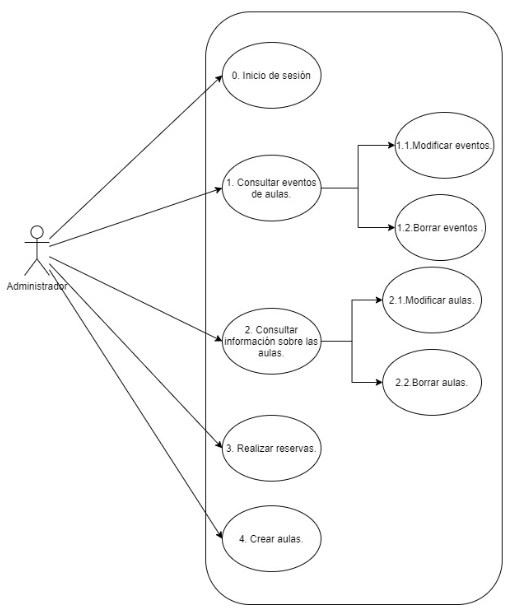
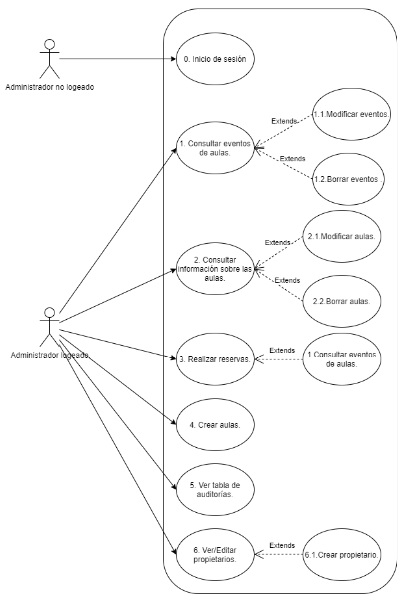
Actualizar casos de uso #77

diff --git a/Documentacion/tex/B_Requisitos.tex b/Documentacion/tex/B_Requisitos.tex
@@ -9,9 +9,10 @@ En este apartado de la documentación explicaré  los objetivos que se perseguí
 	\item Ofrecer al usuario una vista sobre las aulas existentes, si es administrador podrá modificarlas o borrarlas también.
 	\item Ofrecer al usuario una vista con las franjas horarias reservadas y libres de cada aula.
 	\item Controlar el solapamiento de horas.
+	\item Ofrecer un control al administrador sobre las reservas y la información de las aulas.
 \end{itemize}
 \section{Catalogo de requisitos}
-En esta sección enumeraré los requisitos funcionales de la aplicación y los usuarios que intervienen.
+En esta sección enumeraré los requisitos funcionales de la aplicación y los usuarios que intervienen.\newline
 \textbf{Usuario:} será quién use la aplicación, según los privilegios les hay de tres tipos:
     \begin{itemize}
         \item Sin privilegios: Puede consultar todas las aulas y su ocupación.
@@ -52,11 +53,10 @@ En esta sección enumeraré los requisitos funcionales de la aplicación y los u
         \item \textbf{RF.6.2} Permite borrar los eventos.
     \end{itemize}
     \item \textbf{RF.7} La aplicación tiene que poder crear un aula nueva para un manejo posterior.
-     
-    
+    \item \textbf{RF.8} La aplicación tiene que permitir al administrador ver  una tabla de auditoría con las altas, bajas y modificaciones que se realizan en las reservas.
+    \item \textbf{RF.9} La aplicación tiene que poder crear y modificar los propietarios y su información.
     
 \end{itemize}
-
 
 \subsection{Requisitos no funcionales}
 \begin{itemize}
@@ -65,6 +65,7 @@ En esta sección enumeraré los requisitos funcionales de la aplicación y los u
 	\item \textbf{RNF.3 Seguridad} Se controla que no se pueda acceder sin haber iniciado sesión y una vez iniciada sesión, se controla el acceso a las distintas partes de la aplicación.
 	\item \textbf{RFN.4 Mantenibilidad} Es sencillo añadir nuevas funcionalidades.
 \end{itemize}
+\newpage
 \section{Especificación de requisitos}
 \subsection{Diagrama de casos de uso}
 
@@ -118,20 +119,20 @@ En esta sección enumeraré los requisitos funcionales de la aplicación y los u
                                          \\\hline
   Precondiciones                         &  \multicolumn{2}{p{10.25cm}}{Haber iniciado sesión.}   \\\hline
     \multirow{2}{3.5cm}{Secuencia normal}  & Paso & Acción \\\cline{2-3}
-                                         & 1    & El usuario pincha el botón 'Consultar ocupación de aulas' de la barra superior de navegación.
+                                         & 1    & El usuario pincha el botón 'Consultar ocupación de aulas' de la barra superior de navegación o el menú principal.
   \\\cline{2-3}
-                                         & 2    & Se redirige a una página donde se muestra un desplegable para elegir el edificio.
+                                         & 2    & Se redirige a una página donde se muestra un desplegable para elegir el edificio. Con un botón de 'Mostrar aulas'.
   \\\cline{2-3}
-                                         & 3    & Se elige el edifico y se muestra un desplegable con las aulas de éste.También se facilita un botón 'Filtros'.
+                                         & 3    & Se elige el edifico y se pincha en 'Mostrar aulas', aparece entonces un desplegable con las aulas de éste y una primera opción 'Cualquiera'. Debajo tenemos unos cuantos campos para filtrar las aulas por características si elegimos la opción 'Cualquiera' anteriormente. Si elegimos un aula en concreto solamente se tendrán en cuenta los campos de fecha y hora obligatorios. Si no se especifica capacidad ni ordenadores, se mostrarán de todas las capacidades y ordenadores, si se especifican se mostrarán eventos con igual o mayor número.
     \\\cline{2-3}
-                                         & 4    & Si se elige la opción filtros, se muestran más campos para rellenar y filtrar las aulas por ellos. Si no se puede pinchar el botón 'Mostrar eventos' para ver los eventos del aula elegida en el desplegable.
+                                         & 4    & Una vez se ha rellenado el formulario al menos con los campos de fecha y horas se puede pinchar en el botón 'Enviar consulta' para consultar los eventos que coincidan con los especificado anteriormente.
      \\\cline{2-3}
-                                        & 5     & Se muestra la tabla con los eventos pasados y los futuros, especificando detalles sobre ellos.
+                                        & 5     & Se muestra la tabla con los eventos futuros que cumplan las especificaciones, mostrando detalles sobre ellos. Existe un botón en la parte inferior de 'Mostrar eventos pasados' que mostrará los eventos pasados coincidentes en color rojo si en la fecha de inicio se puso una anterior a la actual. Una vez mostrados se puede volver a ocultar del botón 'Ocultar eventos pasados'.
                                         \\\hline
 
                                         
   Postcondiciones                        & \multicolumn{2}{p{10.25cm}}{Permite la visualización de los eventos según el aula elegido, depende de los privilegios del usuario dispondrá de las opciones de modificar (CU1.1) y borrar estos eventos (CU1.2).} \\\hline
-  Excepciones                        & \multicolumn{2}{p{10.25cm}}{Activar la opción de los filtros pero no rellenarlos todos.}
+  Excepciones                        & \multicolumn{2}{p{10.25cm}}{No rellenar los campos de fecha y horas.}
 \\\hline
 }
 
@@ -147,13 +148,13 @@ En esta sección enumeraré los requisitos funcionales de la aplicación y los u
                                          \\\hline
   Precondiciones                         &  \multicolumn{2}{p{10.25cm}}{Tener permisos de administrador o de propietario.}   \\\hline
     \multirow{2}{3.5cm}{Secuencia normal}  & Paso & Acción \\\cline{2-3}
-                                         & 1    & El usuario pincha el botón 'Consultar ocupación de aulas' de la barra superior de navegación.
+                                         & 1    & El usuario pincha el botón 'Consultar ocupación de aulas' de la barra superior de navegación o el menú principal.
   \\\cline{2-3}
-                                         & 2    & Se redirige a una página donde se muestra un desplegable para elegir el edificio.
+                                         & 2    & Se redirige a una página donde se muestra un desplegable para elegir el edificio. Con un botón de 'Mostrar aulas'.
   \\\cline{2-3}
-                                         & 3    & Se elige el edifico y se muestra un desplegable con las aulas de éste.También se facilita un botón 'Filtros'.
+                                         & 3    & Se elige el edifico y se pincha en 'Mostrar aulas', aparece entonces un desplegable con las aulas de éste y una primera opción 'Cualquiera'. Debajo tenemos unos cuantos campos para filtrar las aulas por características si elegimos la opción 'Cualquiera' anteriormente. Si elegimos un aula en concreto solamente se tendrán en cuenta los campos de fecha y hora obligatorios. Si no se especifica capacidad ni ordenadores, se mostrarán de todas las capacidades y ordenadores, si se especifican se mostrarán eventos con igual o mayor número.
     \\\cline{2-3}
-                                         & 4    & Si se elige la opción filtros, se muestran más campos para rellenar y filtrar las aulas por ellos. Si no se puede pinchar el botón 'Mostrar eventos' para ver los eventos del aula elegida en el desplegable.
+                                         & 4    & Una vez se ha rellenado el formulario al menos con los campos de fecha y horas. Si se pincha en 'Enviar consulta', se filtran los eventos y si el usuario es propietario de algún aula o administrador tendrá la opción de modificar en la siguiente pantalla.
      \\\cline{2-3}
                                         & 5     & Se muestra la tabla con los eventos pasados y los futuros, especificando detalles sobre ellos.
     \\\cline{2-3}
@@ -183,13 +184,13 @@ En esta sección enumeraré los requisitos funcionales de la aplicación y los u
                                          \\\hline
   Precondiciones                         &  \multicolumn{2}{p{10.25cm}}{Tener permisos de administrador o de propietario.}   \\\hline
     \multirow{2}{3.5cm}{Secuencia normal}  & Paso & Acción \\\cline{2-3}
-                                         & 1    & El usuario pincha el botón 'Consultar ocupación de aulas' de la barra superior de navegación.
+                                         & 1    & El usuario pincha el botón 'Consultar ocupación de aulas' de la barra superior de navegación o el menú principal.
   \\\cline{2-3}
-                                         & 2    & Se redirige a una página donde se muestra un desplegable para elegir el edificio.
+                                         & 2    & Se redirige a una página donde se muestra un desplegable para elegir el edificio. Con un botón de 'Mostrar aulas'.
   \\\cline{2-3}
-                                         & 3    & Se elige el edifico y se muestra un desplegable con las aulas de éste.También se facilita un botón 'Filtros'.
+                                         & 3    & Se elige el edifico y se pincha en 'Mostrar aulas', aparece entonces un desplegable con las aulas de éste y una primera opción 'Cualquiera'. Debajo tenemos unos cuantos campos para filtrar las aulas por características si elegimos la opción 'Cualquiera' anteriormente. Si elegimos un aula en concreto solamente se tendrán en cuenta los campos de fecha y hora obligatorios. Si no se especifica capacidad ni ordenadores, se mostrarán de todas las capacidades y ordenadores, si se especifican se mostrarán eventos con igual o mayor número.
     \\\cline{2-3}
-                                         & 4    & Si se elige la opción filtros, se muestran más campos para rellenar y filtrar las aulas por ellos. Si no se puede pinchar el botón 'Mostrar eventos' para ver los eventos del aula elegida en el desplegable.
+                                         & 4    & Una vez se ha rellenado el formulario al menos con los campos de fecha y horas. Si se pincha en 'Enviar consulta', se filtran los eventos y si el usuario es propietario de algún aula o administrador tendrá la opción de borrar en la siguiente pantalla.
      \\\cline{2-3}
                                         & 5     & Se muestra la tabla con los eventos pasados y los futuros, especificando detalles sobre ellos.
     \\\cline{2-3}
@@ -217,7 +218,7 @@ En esta sección enumeraré los requisitos funcionales de la aplicación y los u
                                          \\\hline
   Precondiciones                         &  \multicolumn{2}{p{10.25cm}}{Haber iniciado sesión.}   \\\hline
     \multirow{2}{3.5cm}{Secuencia normal}  & Paso & Acción \\\cline{2-3}
-                                         & 1    & El usuario pincha el botón 'Ver/Modificar aulas' de la barra superior de navegación.
+                                         & 1    & El usuario pincha el botón 'Ver aulas' de la barra superior de navegación.
   \\\cline{2-3}
                                          & 2    & Se redirige a la página de información sobre las aulas, donde se muestra una opción para elegir el grupo de aulas.
   \\\cline{2-3}
@@ -318,17 +319,19 @@ En esta sección enumeraré los requisitos funcionales de la aplicación y los u
                                          \\\hline
   Precondiciones                         &  \multicolumn{2}{p{10.25cm}}{Haber iniciado sesión. Tener permisos necesarios.}   \\\hline
     \multirow{2}{3.5cm}{Secuencia normal}  & Paso & Acción \\\cline{2-3}
-                                         & 1    & El usuario (administrador o propietario) pincha el botón 'Realizar reserva' de la barra superior de navegación.
+                                         & 1    & El usuario (administrador o propietario) pincha el botón 'Realizar reserva' de la barra superior de navegación o el menú principal.
   \\\cline{2-3}
-                                         & 2    & Se muestra un pequeño formulario en el que se piden la capacidad, nº de ordenadores, edificio y tipo de aula.
+                                         & 2    & Se muestra un formulario en el que se aprecian 3 divisiones. En el primero se piden la capacidad, nº de ordenadores, edificio y tipo de aula.
   \\\cline{2-3}
-                                         & 3    & Si se pincha en el botón 'Consultar'. Se muestran las 3 formas distintas en que se puede realizar la reserva. Se selecciona una para seguir.
+                                         & 3    & Hay que pinchar en el botón 'Consultar' para continuar y se llena el campo de seleccionar aula con las opciones según lo especificado al comienzo, si hay más de un aula se añade una opción de 'Cualquiera' a la lista de aulas disponibles.
 \\\cline{2-3}
-                                         & 4    & Se pincha en el botón 'Aplicar'. Esto muestra un formulario para rellenar la información requerida según el tipo de reserva seleccionada previamente.
+                                         & 4    & En la segunda división del cuestionario, se ofrece la posibilidad de cambiar el tipo de reserva. La opción de pinchar en el botón 'Aplicar' conlleva que cambie el número de casillas a rellenar dependiendo de la opción que se haya elegido.
 \\\cline{2-3}
-                                         & 5    & Si se pincha en el botón 'Consultar ocupación de aulas', se muestran las horas reservadas del aula elegida, si la elección es 'Cualquiera', se muestra de todas las aulas.
+                                        & 5    & Si se elige 'un día' se queda igual. Si se elige la opción 'días contiguos' se añaden el campo 'Fecha fin'. Si se elige la opción 'Un día por semana' se añaden los campos 'Selecciona día de la semana' y 'Fecha fin'
 \\\cline{2-3}
-                                         & 6    & Si se pincha en el botón 'Crear evento' para reservar la hora y aula pedida si están libres, sino se mostrará un error por pantalla.
+                                         & 6    & Si se pincha en el botón 'Consultar ocupación de aulas', se muestran las horas reservadas del aula elegida, si la elección es 'Cualquiera', se muestran los eventos de todas las aulas del desplegable.
+\\\cline{2-3}
+                                         & 7    & Si se pincha en el botón 'Reservar' se realiza la reserva la hora y aula pedida si están libres, sino se mostrará un mensaje de error por pantalla.
 
                                         \\\hline
 
@@ -367,3 +370,79 @@ Precondiciones                         &  \multicolumn{2}{p{10.25cm}}{Haber inic
 
 }
                                         
+                                        
+\tablaSmallSinColores{Caso de uso 5: Ver auditorías.}{p{3cm} p{.75cm} p{9.5cm}}{tablaUC5}{
+  \multicolumn{3}{l}{Caso de uso 5: Ver auditorías.} \\
+ }
+ {
+  Descripción                            & \multicolumn{2}{p{10.25cm}}{Permite al usuario administrador ver las altas, bajas y modificaciones realizadas sobre cualquier reserva.} \\\hline
+  \multirow{1}{3.5cm}{Requisitos}   &\multicolumn{2}{p{10.25cm}}{RF-8}
+                                         \\\hline
+Precondiciones                         &  \multicolumn{2}{p{10.25cm}}{Ser administrador.}   \\\hline
+    \multirow{2}{3.5cm}{Secuencia normal}  & Paso & Acción \\\cline{2-3}
+                                         & 1    & El usuario (administrador) pincha el botón 'Ver auditorías' de la barra superior de navegación.
+  \\\cline{2-3}
+                                         & 2    & Se muestra una tabla en la que figuran las acciones sobre las reservas, ya sea una alta, baja o modificación. Se especifica el usuario y la fecha de dicha acción.
+
+
+                                        \\\hline
+ Postcondiciones                        & \multicolumn{2}{p{10.25cm}}{Acceso a cualquier función.} \\\hline
+  Excepciones                        & \multicolumn{2}{p{10.25cm}}{No ser administrador.}
+
+                        \\\hline
+
+}       
+
+
+
+
+\tablaSmallSinColores{Caso de uso 6: Ver/editar propietarios.}{p{3cm} p{.75cm} p{9.5cm}}{tablaUC5}{
+  \multicolumn{3}{l}{Caso de uso 6: Crear/editar propietarios.} \\
+ }
+ {
+  Descripción                            & \multicolumn{2}{p{10.25cm}}{Permite al usuario administrador ver y modificar la información de los propietarios existentes.} \\\hline
+  \multirow{1}{3.5cm}{Requisitos}   &\multicolumn{2}{p{10.25cm}}{RF-9}
+                                         \\\hline
+Precondiciones                         &  \multicolumn{2}{p{10.25cm}}{Ser administrador.}   \\\hline
+    \multirow{2}{3.5cm}{Secuencia normal}  & Paso & Acción \\\cline{2-3}
+                                         & 1    & El usuario (administrador) pincha el botón 'Ver/Editar propietarios' de la barra superior de navegación.
+  \\\cline{2-3}
+                                         & 2    & Se muestra una tabla en la que figuran los propietarios existentes con su información relevante.
+  \\\cline{2-3}
+                                         & 3    & Se da la opción de modificar la información de cada propietario pinchando en el botón 'Modificar' al lado de cada uno.
+  \\\cline{2-3}
+                                         & 4    & Se muestra un formulario en el que se permite editar los campos del propietario a modificar .                                         
+
+
+                                        \\\hline
+ Postcondiciones                        & \multicolumn{2}{p{10.25cm}}{Visualización de los propietarios.} \\\hline
+  Excepciones                        & \multicolumn{2}{p{10.25cm}}{No ser administrador.}
+
+                        \\\hline
+
+}  
+
+
+\tablaSmallSinColores{Caso de uso 6.1: Crear propietario.}{p{3cm} p{.75cm} p{9.5cm}}{tablaUC5}{
+  \multicolumn{3}{l}{Caso de uso 6.1: Crear propietario.} \\
+ }
+ {
+  Descripción                            & \multicolumn{2}{p{10.25cm}}{Permite al usuario administrador crear un nuevo propietario.} \\\hline
+  \multirow{1}{3.5cm}{Requisitos}   &\multicolumn{2}{p{10.25cm}}{RF-9}
+                                         \\\hline
+Precondiciones                         &  \multicolumn{2}{p{10.25cm}}{Ser administrador.}   \\\hline
+    \multirow{2}{3.5cm}{Secuencia normal}  & Paso & Acción \\\cline{2-3}
+                                         & 1    & El usuario (administrador) pincha el botón 'Crear propietarios' de la barra superior de navegación.
+  \\\cline{2-3}
+                                         & 2    & Se muestra un formulario en el que se piden los datos necesarios para crear un propietario nuevo.
+  \\\cline{2-3}
+                                         & 3    & Se pincha en la opción 'Crear' y el propietario está disponible para ser manejado.
+
+
+                                        \\\hline
+ Postcondiciones                        & \multicolumn{2}{p{10.25cm}}{Visualización de los propietarios.}\\\hline
+  Excepciones                        & \multicolumn{2}{p{10.25cm}}{No ser administrador.}
+
+                        \\\hline
+
+}  
